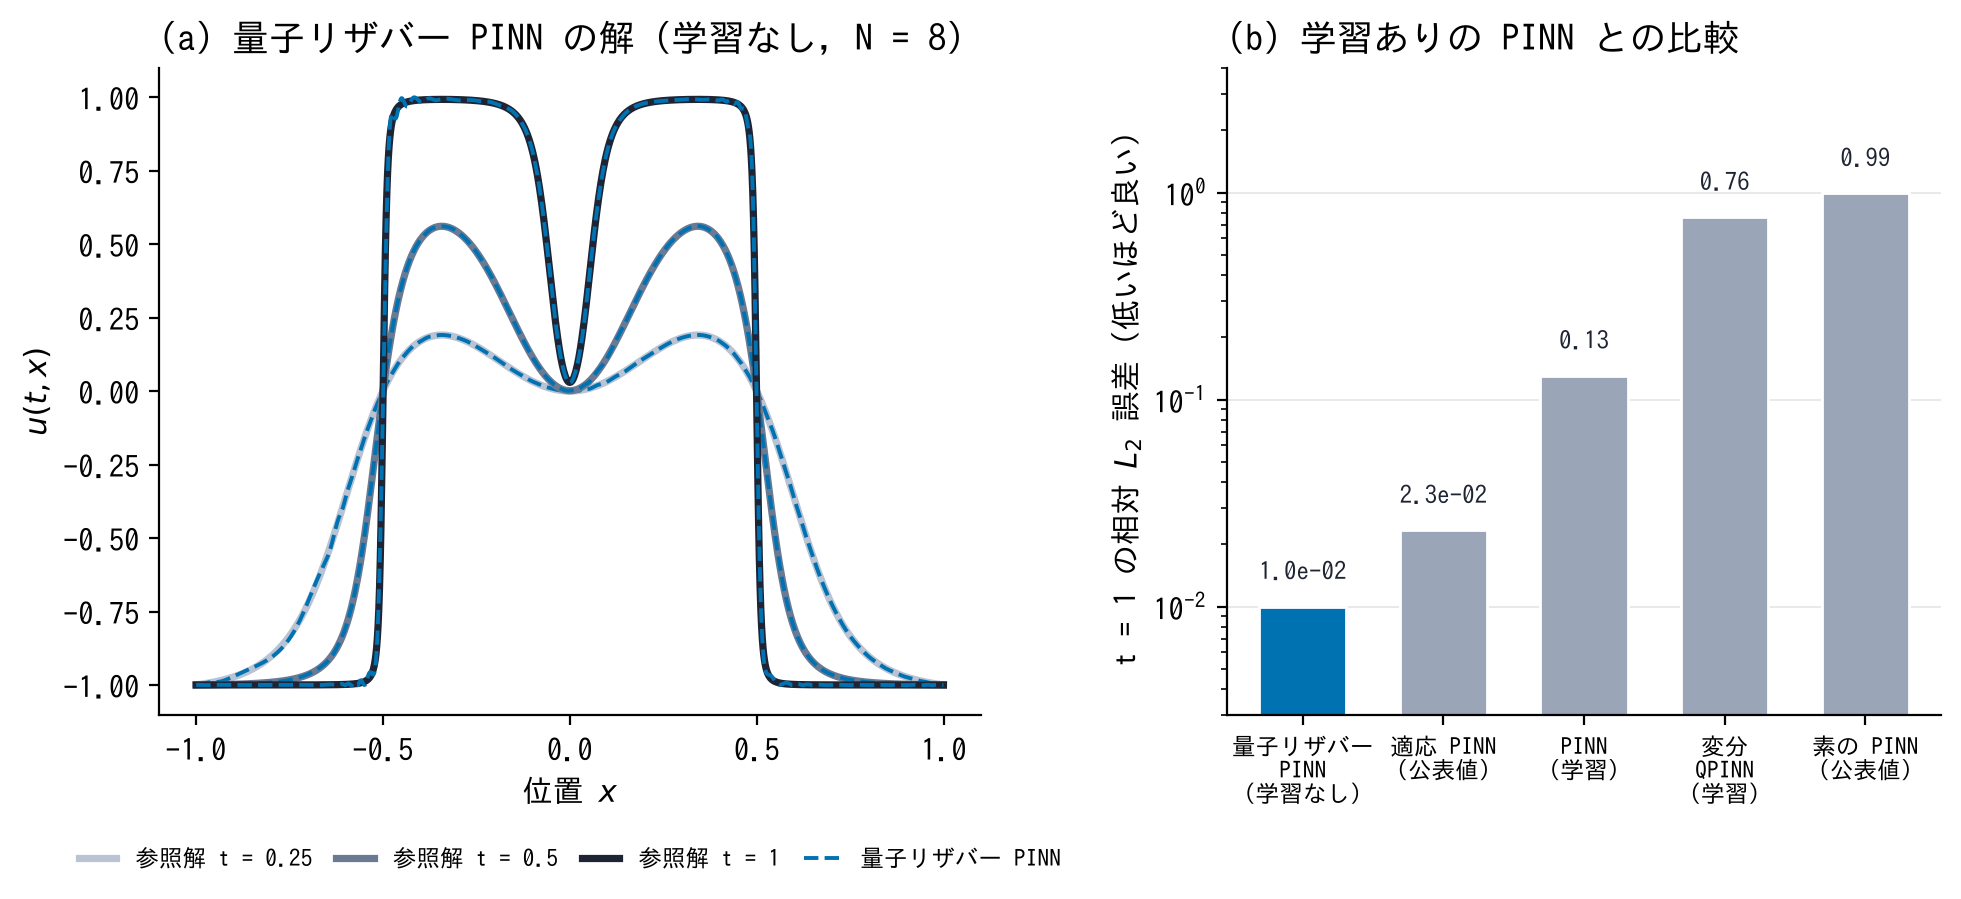
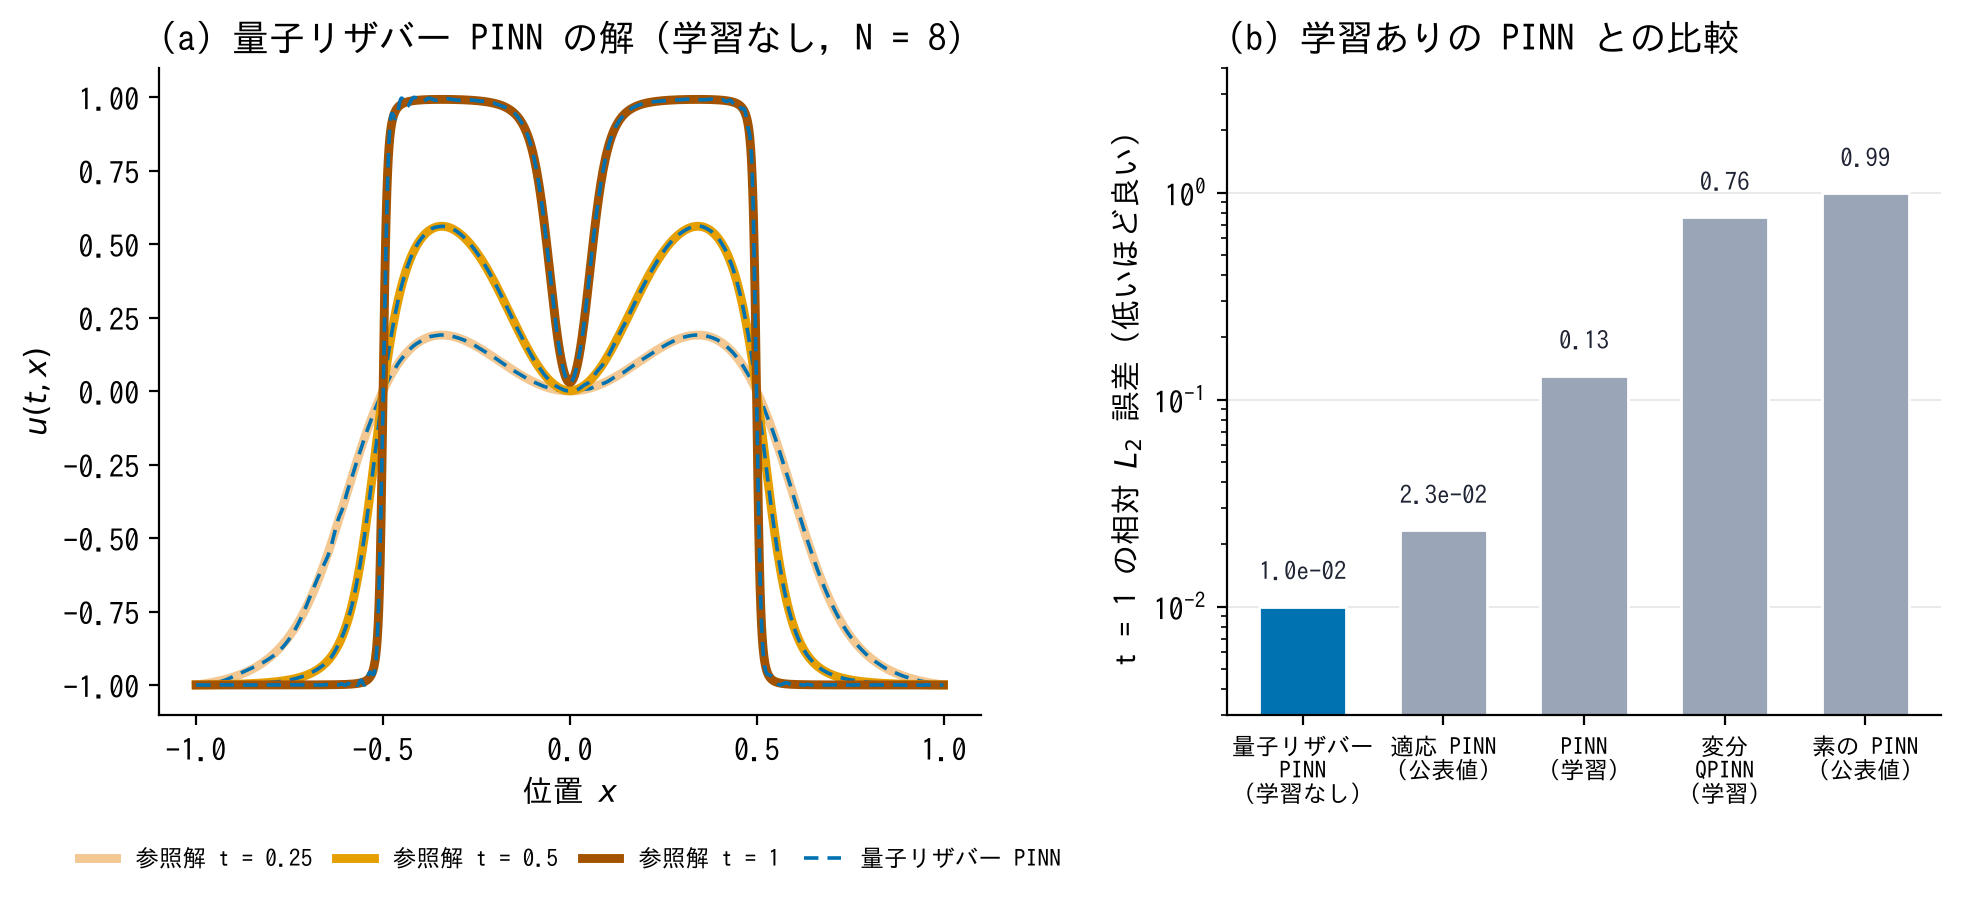
Headline figure: reference in a warm hue, reservoir dashed blue
Claude-Session: https://claude.ai/code/session_01Mev6h9296AsUnBPs6GriHb

diff --git a/60_fig_qerc_main.py b/60_fig_qerc_main.py
@@ -39,11 +39,11 @@ def main():
     q_gm = float(np.exp(np.mean(np.log(q_all))))
 
     fig, (a, b) = plt.subplots(1, 2, figsize=(11.5, 4.2), gridspec_kw={"width_ratios": [1.15, 1], "wspace": 0.32})
-    shades = ["#B9C3D3", "#6B7A93", INK]
+    shades = ["#F3C892", "#E69F00", "#A35200"]   # reference: one warm hue, light -> dark with time
     for t, c in zip(ts, shades):
-        a.plot(x, ref[t], color=c, lw=2.6, label=f"参照解 t = {t:g}")
-        a.plot(x, out[t], color=Q, lw=1.4, ls="--")
-    a.plot([], [], color=Q, lw=1.4, ls="--", label="量子リザバー PINN")
+        a.plot(x, ref[t], color=c, lw=3.2, label=f"参照解 t = {t:g}")
+        a.plot(x, out[t], color=Q, lw=1.3, ls=(0, (4, 2.5)))
+    a.plot([], [], color=Q, lw=1.3, ls=(0, (4, 2.5)), label="量子リザバー PINN")
     a.set_xlabel("位置 $x$"); a.set_ylabel("$u(t,x)$")
     a.set_title("(a) 量子リザバー PINN の解（学習なし，N = 8）", loc="left")
     a.legend(frameon=False, fontsize=8.5, loc="upper center", bbox_to_anchor=(0.5, -0.17), ncol=4, handlelength=1.6, columnspacing=1.0)
